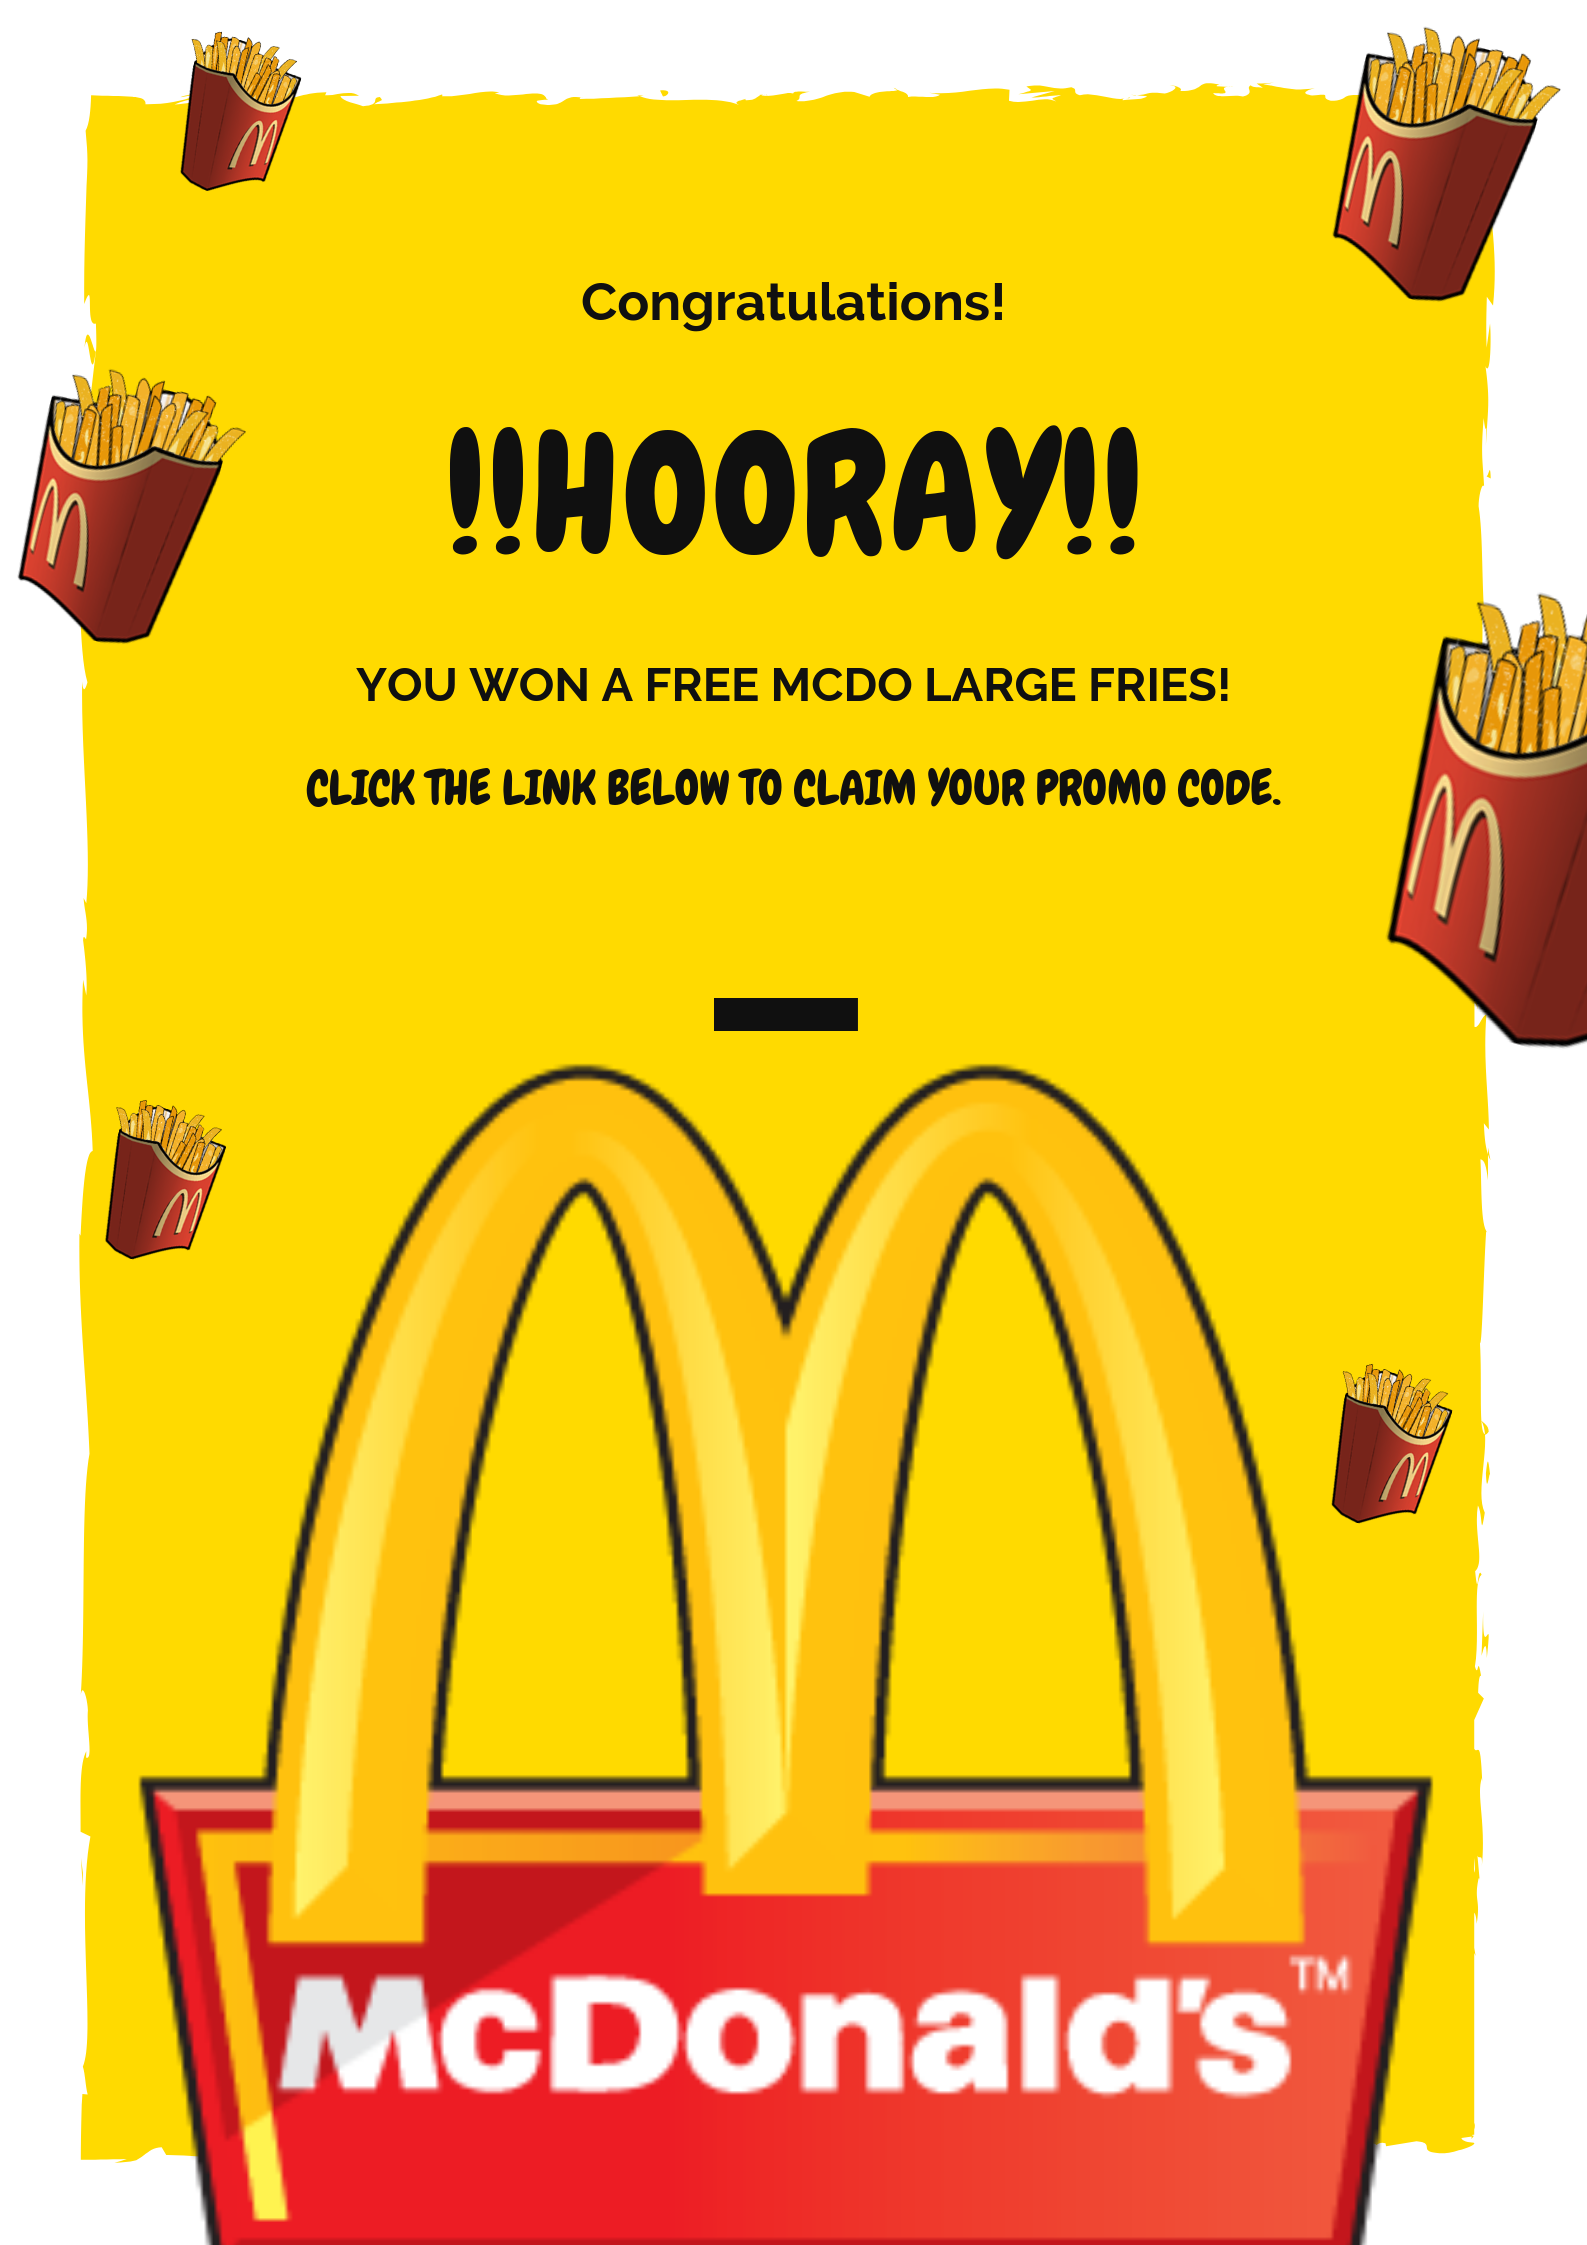
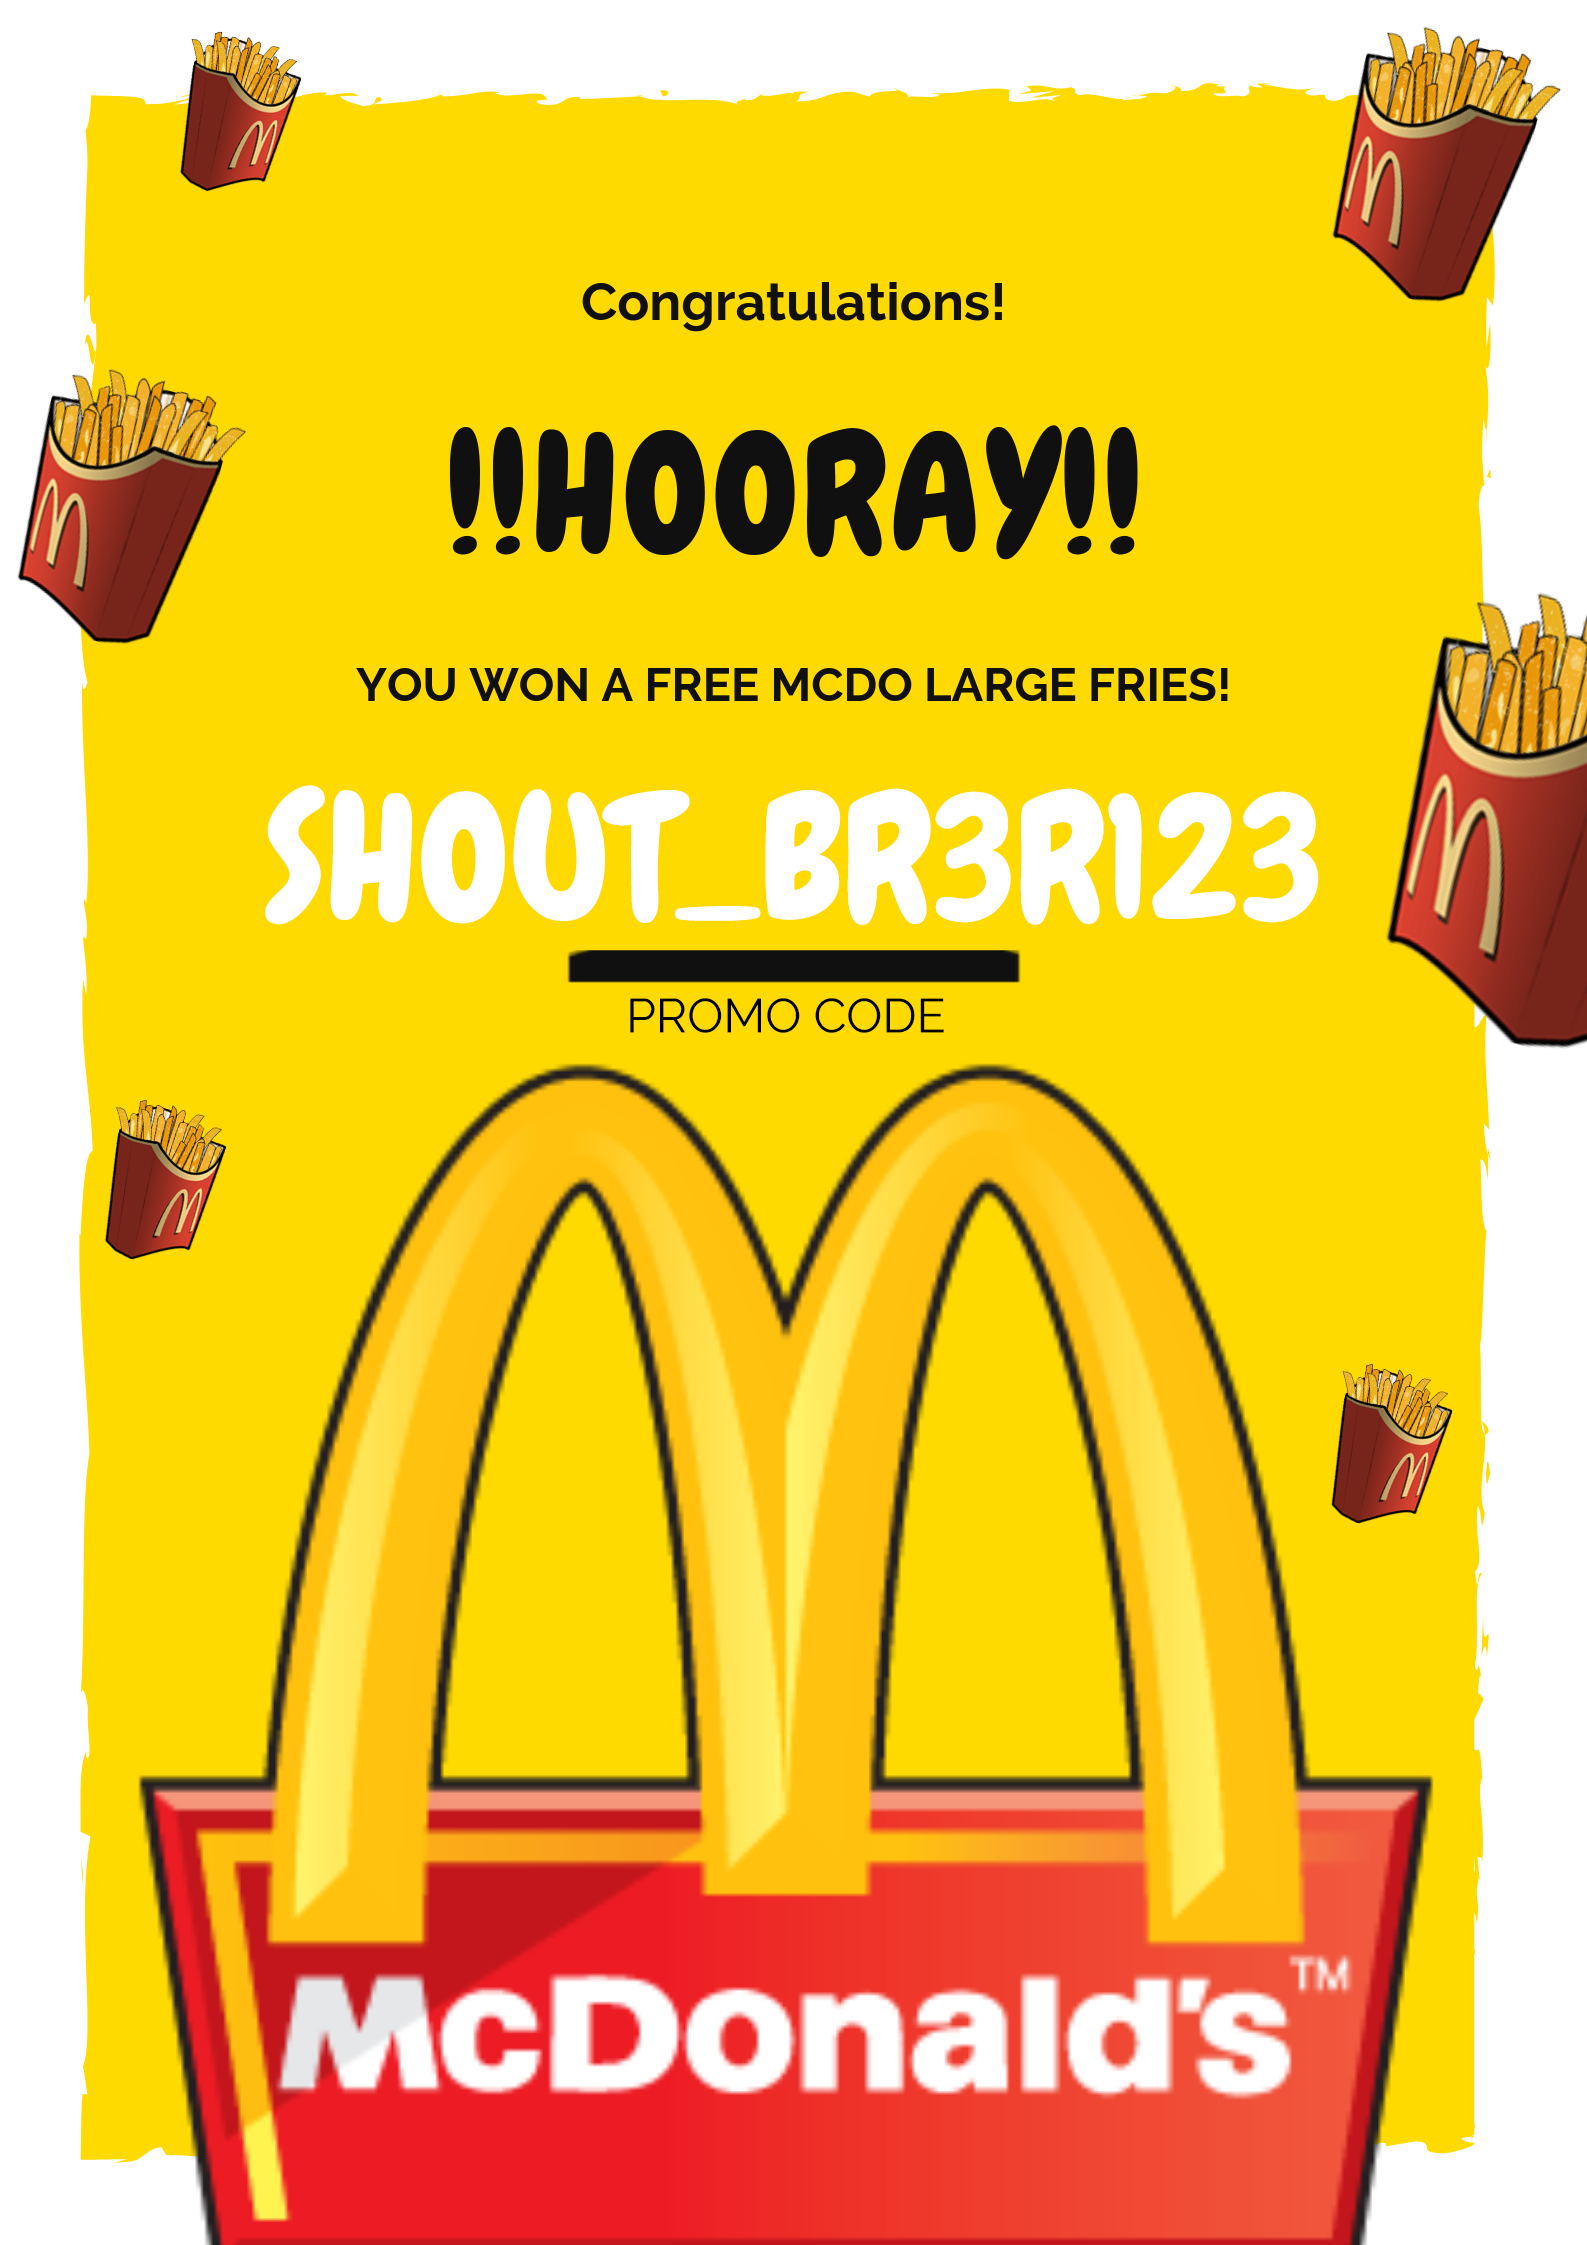
1

Changed region(s): [[0.1544, 0.343, 0.8336, 0.4677]]

diff --git a/app.js b/app.js
@@ -196,55 +196,56 @@ function promo1(sender_psid){
   let response;
     console.log("----- PROMO 1 WORKING -----")
     user.getUserData(sender_psid, result => {
-    const user = JSON.parse(result);
-      senderAction(sender_psid, "typing_on");
-        response = {   
-          text: "🎉 CONGRATULATIONS" + user.name + "!! 🎉"
-        }
-      callSendAPI(sender_psid, response);
+      const user = JSON.parse(result);
+        senderAction(sender_psid, "typing_on");
+          response = {   
+            text: "🎉 CONGRATULATIONS" + user.firstname + "!! 🎉 \n\nYou just won your first promo."
+          }
+        callSendAPI(sender_psid, response);
 
-    setTimeout(function(){     
-      senderAction(sender_psid, "typing_on");
-        response = {   
-          text: "You just won your first promo."
-        }
-      callSendAPI(sender_psid, response);
-    }, 1500);
-
-    setTimeout(function(){     
-      senderAction(sender_psid, "typing_on");
-        response = {   
-          text: "Click the card below to claim 👇"
-        }
-      callSendAPI(sender_psid, response);
-    }, 1800);
-
-    setTimeout(function(){     
-      senderAction(sender_psid, "typing_on");
-       response = {
-        attachment: {
-          type: "template",
-            payload: {
-            template_type: "media",
-              elements: [
-                 {
-                  media_type: "image",
-                  url: "https://www.facebook.com/photo.php?fbid=450066978929263&set=a.450031398932821&type=3&theater",
-                  buttons: [
-                    {
-                      type: "web_url",
-                      url: "www.google.com",
-                      title: "Claim promo",
-                    }
-                  ]              
-                }
-              ]
+        setTimeout(function(){     
+          senderAction(sender_psid, "typing_on");
+            response = {   
+              text: "PROMO CODE : SHOUT_BR3R123"
             }
-          }           
-        };
-       callSendAPI(sender_psid, response);
-      }, 2000);
-      });
+          callSendAPI(sender_psid, response);
+        }, 1500);
+
+      setTimeout(function(){     
+        senderAction(sender_psid, "typing_on");
+          response = {   
+            text: 
+              "You may present this promo code at any McDonald's store to avail this offer."
+          }
+        callSendAPI(sender_psid, response);
+      }, 1800);
+
+      setTimeout(function(){     
+        senderAction(sender_psid, "typing_on");
+        response = {
+          attachment: {
+            type: "template",
+              payload: {
+              template_type: "media",
+                elements: [
+                  {
+                    media_type: "image",
+                    url: "https://www.facebook.com/photo.php?fbid=451622012107093&set=a.450031398932821&type=3&theater",
+                    // buttons: [
+                    //   {
+                    //     type: "web_url",
+                    //     url: "www.google.com",
+                    //     title: "Claim promo",
+                    //   }
+                    // ]              
+                  }
+                ]
+              }
+            }           
+          };
+        callSendAPI(sender_psid, response);
+        }, 2000);
+        });
     
 }
 
@@ -295,11 +296,35 @@ function handleAddress(sender_psid, received_message){
 // ---------------------------- PROMO_1 ---------------------------------
   else if (payload == "PROMO_1") {
     console.log("----- PROMO 1 WORKING -----")
+
+    con.query("SELECT * FROM shout_claim WHERE user_id = ?",
+      [sender_psid],
+      (error, result) => {
+        if (error) throw err;
+        if (result.length == 0) {
+          getUserData(sender_psid, result => {
+           console.log("+++++++++++++++++++++++++++++++++++++++++++++++++++++++++++++++++++++++++")
+            const user = JSON.parse(result);
+            con.query("INSERT INTO shout_claim (user_id, user_profile_pic, user_fname, user_lname, promo_claimed, first_claim) VALUES (?, ?, ?, ?, ?,?)",
+              [
+                sender_psid,
+                user.picture.data.url,
+                user.first_name,
+                user.last_name,
+                "Mcdo free fries",
+                moment().format("YYYY/MM/DD HH:mm:ss"),
+                moment().format("YYYY/MM/DD HH:mm:ss"),
+              ]
+            )
+          });
+        }}
+        )
+
       user.getUserData(sender_psid, result => {
       const user = JSON.parse(result);
         senderAction(sender_psid, "typing_on");
           response = {   
-            text: "🎉 CONGRATULATIONS" + user.name + "!! 🎉 \n\nYou just won your first promo."
+            text: "🎉 CONGRATULATIONS" + user.firstname + "!! 🎉 \n\nYou just won your first promo."
           }
         callSendAPI(sender_psid, response);
 
@@ -330,7 +355,7 @@ function handleAddress(sender_psid, received_message){
                 elements: [
                   {
                     media_type: "image",
-                    url: "https://www.facebook.com/photo.php?fbid=450066978929263&set=a.450031398932821&type=3&theater",
+                    url: "https://www.facebook.com/photo.php?fbid=451622012107093&set=a.450031398932821&type=3&theater",
                     // buttons: [
                     //   {
                     //     type: "web_url",
@@ -394,7 +419,7 @@ var handleQuickReply = (sender_psid, received_postback, received_message, callba
                     title: "Claim Free Mcdo Fries",
                     subtitle:
                       "Claim Your Free World Famous Fries",
-                    image_url: config.APP_URL + "/images/3.png",
+                    image_url: config.APP_URL + "/images/5.png",
                     buttons: 
                     [
                       {
